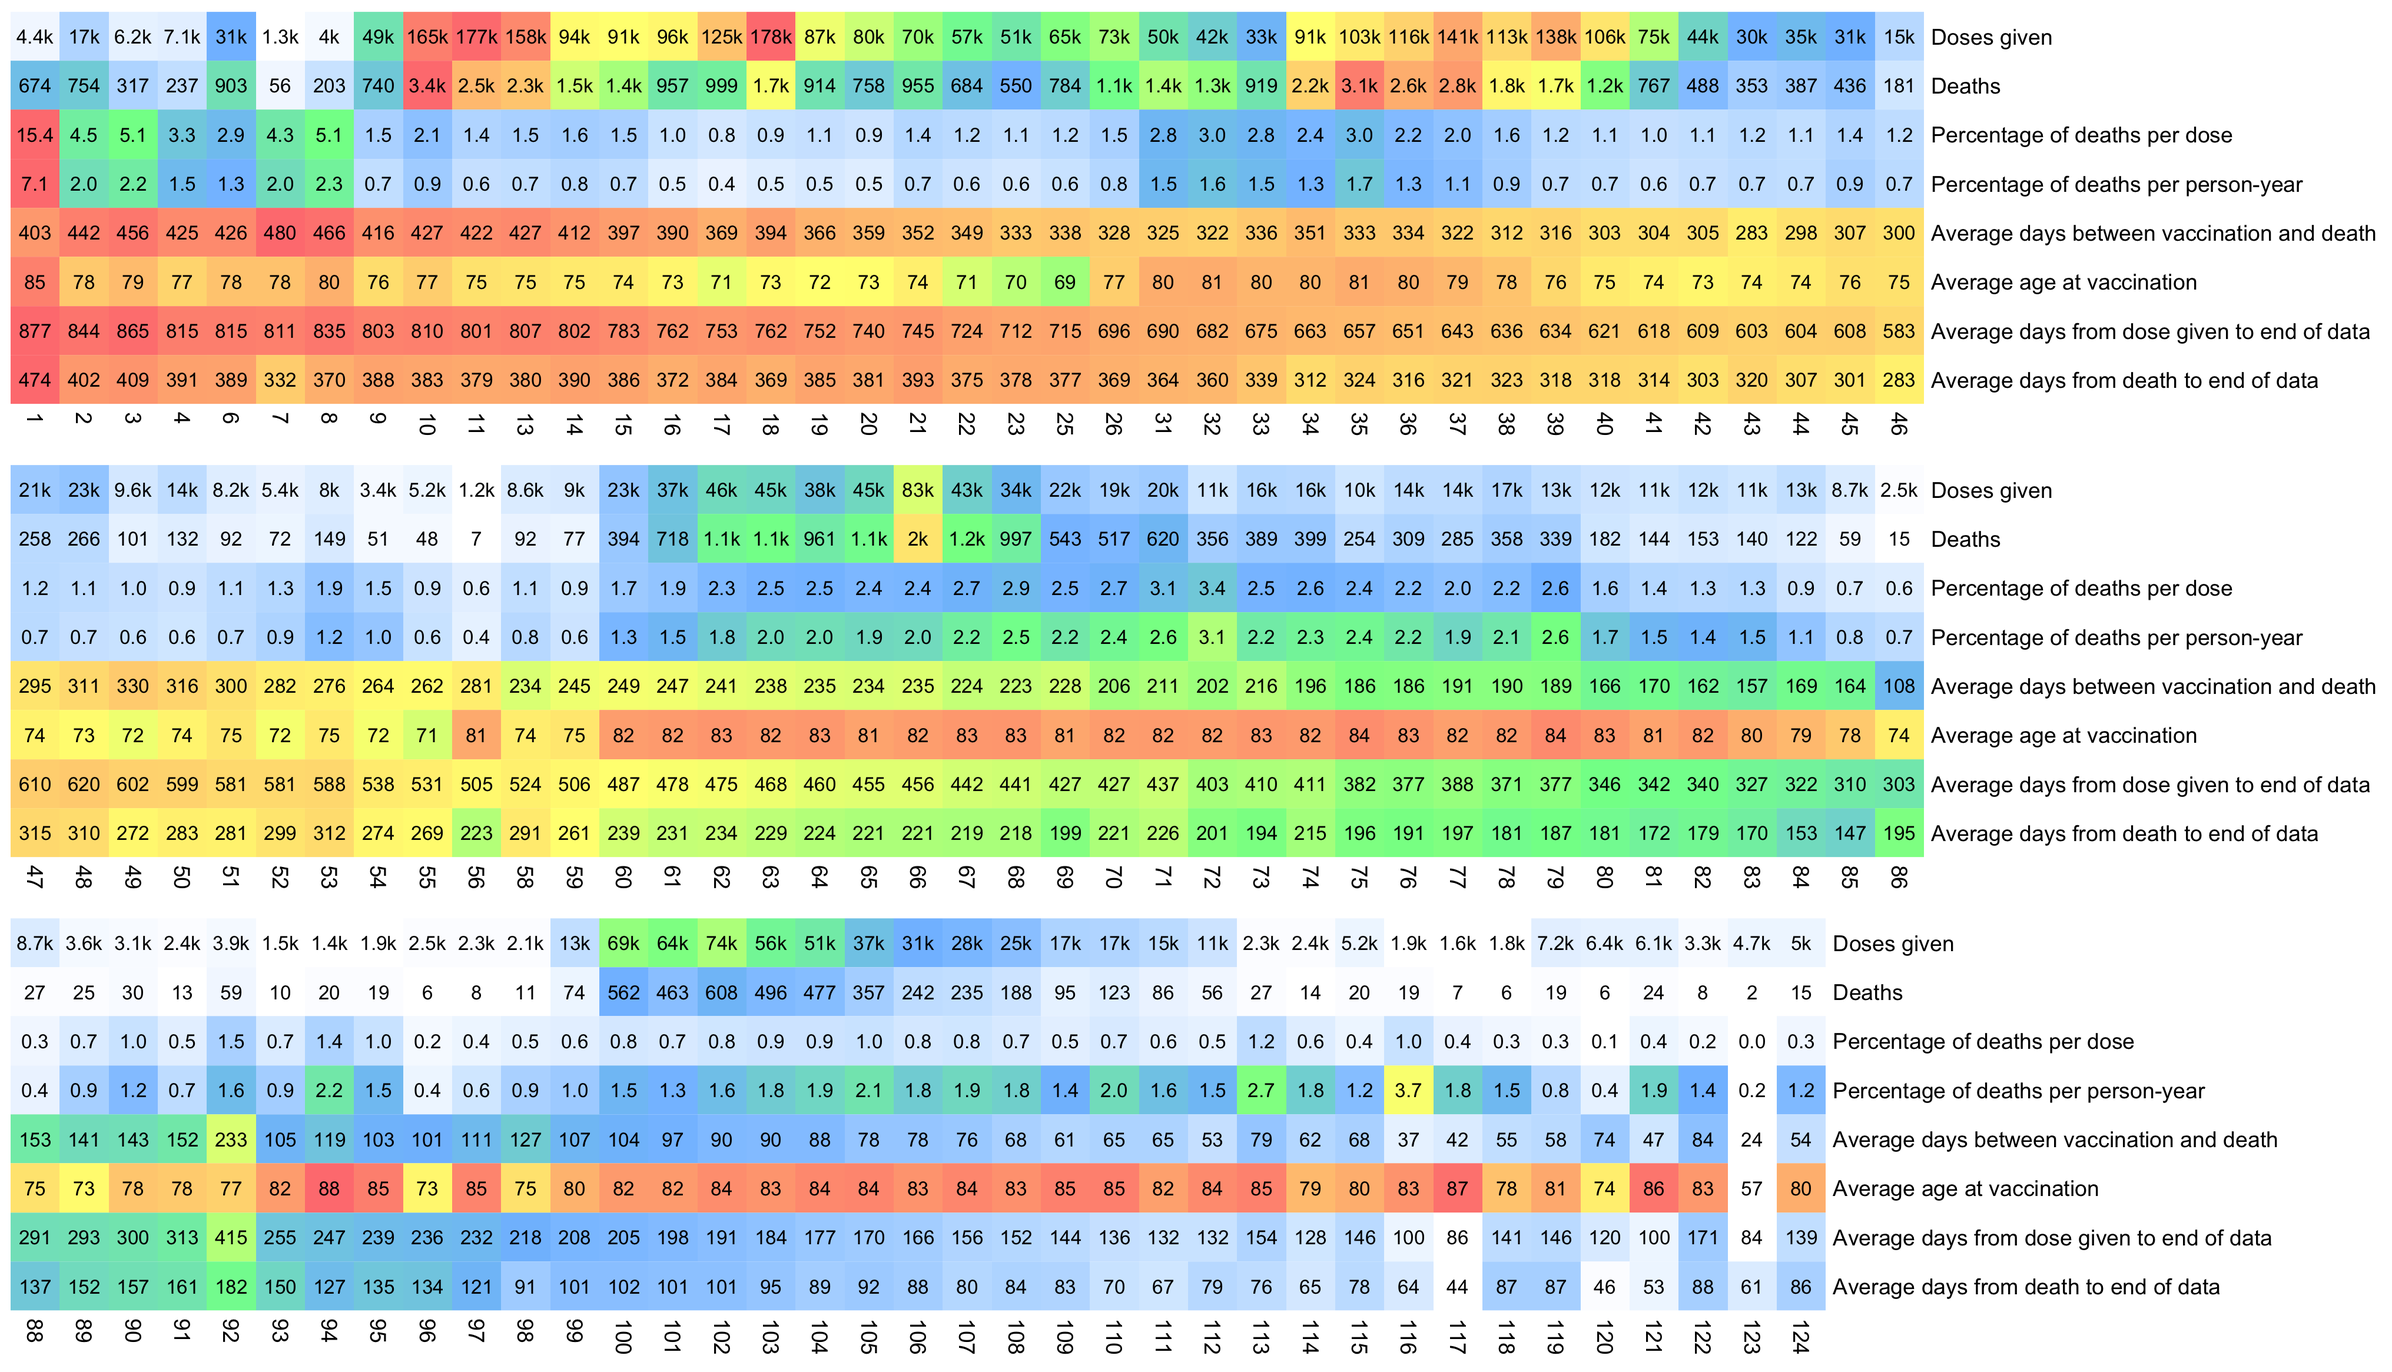
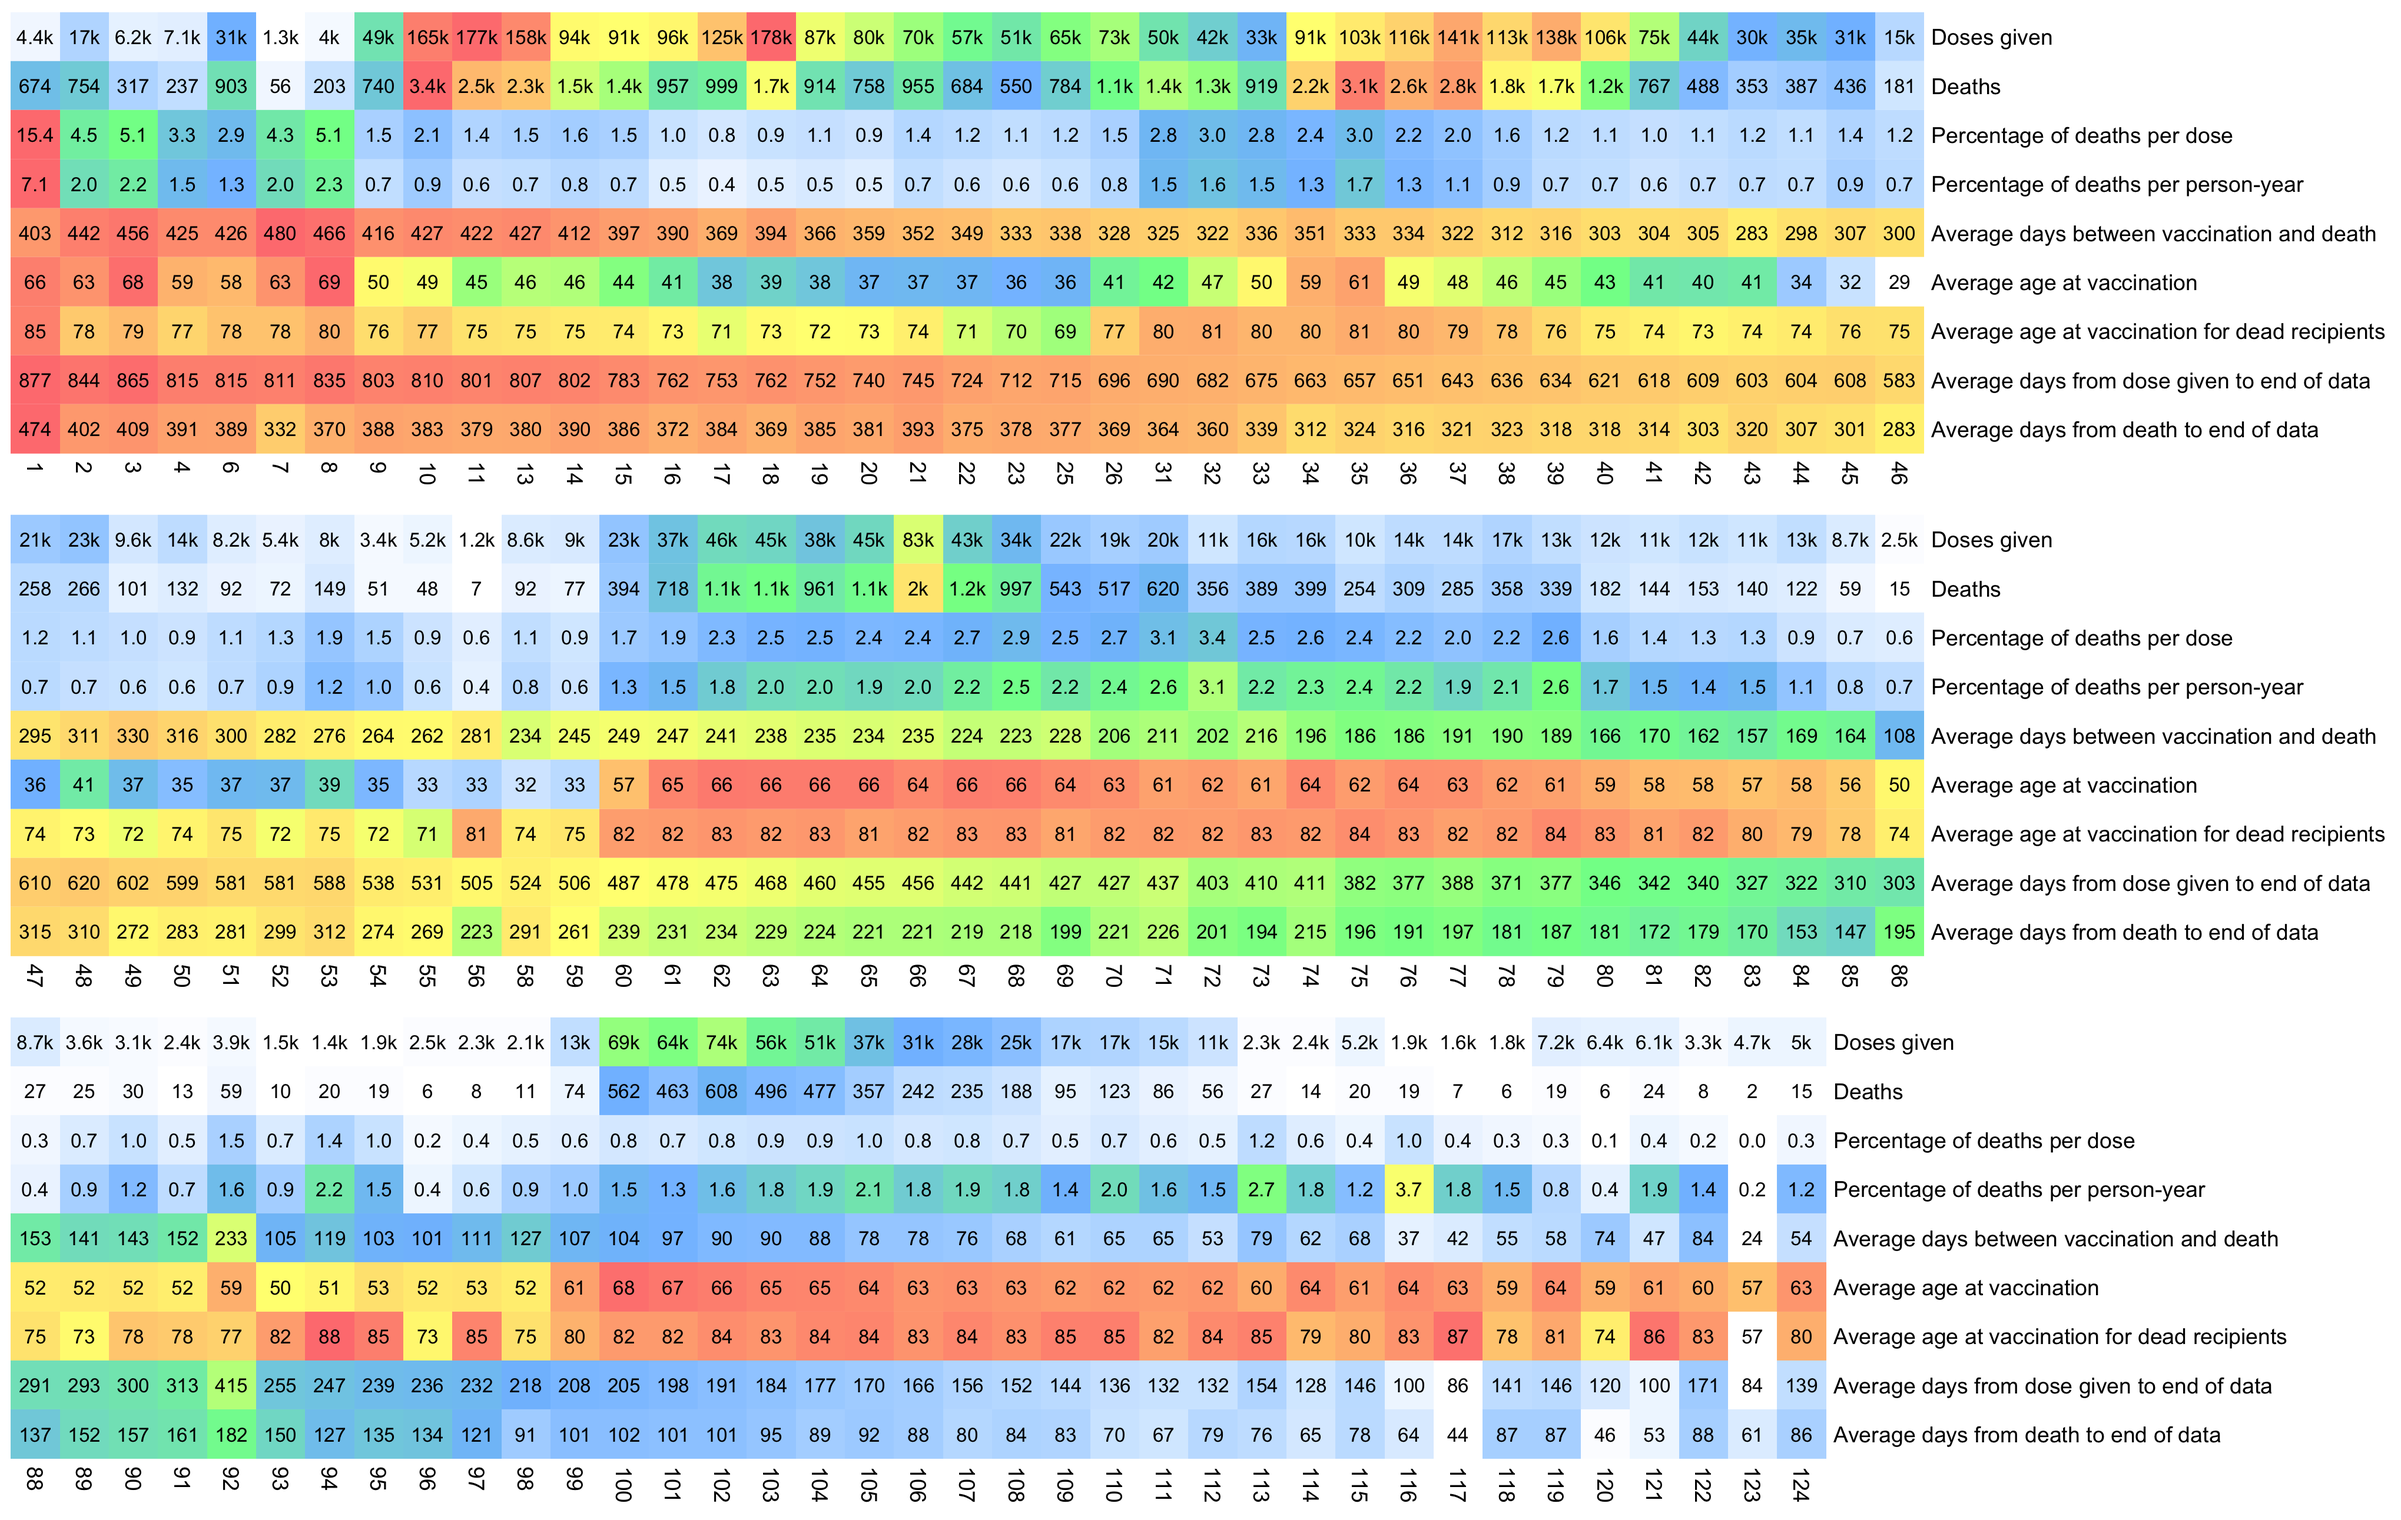
a

Changed region(s): [[0.0, 0.0, 0.9924, 0.6486], [0.0, 0.6795, 0.9614, 0.9884]]

diff --git a/moar.html b/moar.html
@@ -54,6 +54,7 @@ th{background:#eee;text-align:left;font-weight:bold}
 <li><a href=#Excess_mortality_compared_to_new_vaccinations>Excess mortality compared to new vaccinations</a></li>
 <li><a href=#Histogram_for_days_from_vaccination_until_death>Histogram for days from vaccination until death</a></li>
 <li><a href=#Distribution_of_vaccine_doses_given_per_day_compared_to_OWID>Distribution of vaccine doses given per day compared to OWID</a></li>
+<li><a href=#Table_for_deaths_by_vaccination_site>Table for deaths by vaccination site</a></li>
 </ul>
 
 <h2>
@@ -163,26 +164,29 @@ batch  doses_given  deaths  death_pct  most_common_vaccine_type_of_batch  pct_of
 </div>
 <p>I omitted 4 batches that had zero deaths from the heatmap above. The end of data refers to 2023-10-27 which was the date of the last death included in the dataset.</p>
 <p>R code:</p>
-<pre>t=read.csv(&quot;nz-record-level-data-4M-records.csv&quot;)
+<pre>t=read.csv(textConnection(readLines(gzcon(url(&quot;https://mongol-fi.github.io/f/nz-record-level-data-4M-records.csv.gz&quot;)))))
 t2=t[t$date_of_death!=&quot;&quot;,]
 t1=t[t$batch_id%in%t2$batch_id,]
 
-dvax=as.Date(t2$date_time_of_service,&quot;%m-%d-%Y&quot;)
-ddeath=as.Date(t2$date_of_death,&quot;%m-%d-%Y&quot;)
-dbirth=as.Date(t2$date_of_birth,&quot;%m-%d-%Y&quot;)
-dend=max(ddeath)
-
 doses=table(t1$batch_id)
 deaths=table(t2$batch_id)
+vax1=as.Date(t1$date_time_of_service,&quot;%m-%d-%Y&quot;)
+death1=as.Date(t1$date_of_death,&quot;%m-%d-%Y&quot;)
+birth1=as.Date(t1$date_of_birth,&quot;%m-%d-%Y&quot;)
+vax2=as.Date(t2$date_time_of_service,&quot;%m-%d-%Y&quot;)
+death2=as.Date(t2$date_of_death,&quot;%m-%d-%Y&quot;)
+birth2=as.Date(t2$date_of_birth,&quot;%m-%d-%Y&quot;)
+dend=max(death2)
 
-d=data.frame(`Doses listed for batch`=c(doses),check.names=F)
-d$`Deaths listed for batch`=deaths
+d=data.frame(`Doses given`=c(doses),check.names=F)
+d$`Deaths`=deaths
 d$`Percentage of deaths per dose`=100*deaths/doses
-d$`Death percent per person-year`=deaths/(tapply(pmin(as.Date(t1$date_of_death,&quot;%m-%d-%Y&quot;),dend,na.rm=T)-as.Date(t1$date_time_of_service,&quot;%m-%d-%Y&quot;),t1$batch_id,sum)/365.2422)*1e2
-d$`Average days between vaccination and death`=tapply(ddeath-dvax,t2$batch_id,mean)
-d$`Average age at vaccination`=tapply(dvax-dbirth,t2$batch_id,mean)/365.2422
-d$`Average days from dose given to end of data`=tapply(dend-dvax,t2$batch_id,mean)
-d$`Average days from death to end of data`=tapply(dend-ddeath,t2$batch_id,mean)
+d$`Percentage of deaths per person-year`=deaths/(tapply(pmin(death1,dend,na.rm=T)-vax1,t1$batch_id,sum)/365.2422)*1e2
+d$`Average days between vaccination and death`=tapply(death2-vax2,t2$batch_id,mean)
+d$`Average age at vaccination`=tapply(vax1-birth1,t1$batch_id,mean)/365.2422
+d$`Average age at vaccination for dead recipients`=tapply(vax2-birth2,t2$batch_id,mean)/365.2422
+d$`Average days from dose given to end of data`=tapply(dend-vax2,t2$batch_id,mean)
+d$`Average days from death to end of data`=tapply(dend-death2,t2$batch_id,mean)
 
 m=t(apply(d,2,\(x)(x-min(x))/(max(x)-min(x))))
 
@@ -191,23 +195,30 @@ disp=kimir2(t(d))
 disp[3,]=sprintf(&quot;%.1f&quot;,d[,3])
 disp[4,]=sprintf(&quot;%.1f&quot;,d[,4])
 
-pheatmap::pheatmap(
-  m,
-  filename=&quot;1.png&quot;,
-  cluster_rows=F,
-  cluster_cols=F,
-  legend=F,
-  cellwidth=20,
-  cellheight=20,
-  fontsize=9,
-  border_color=NA,
-  display_numbers=disp,
-  fontsize_number=8,
-  number_color=&quot;black&quot;,
-  na_col=&quot;white&quot;,
-  breaks=seq(0,1,,256),
-  colorRampPalette(colorspace::hex(colorspace::HSV(c(210,210,130,60,40,20,0),c(0,.5,.5,.5,.5,.5,.5),1)))(256)
-)</pre>
+slices=3
+for(i in 1:slices){
+  step=ceiling(ncol(m)/slices)
+  start=(i-1)*step+1
+  end=min(start+step-1,ncol(m))
+  pheatmap::pheatmap(
+    m[,start:end],
+    filename=paste0(&quot;i&quot;,i,&quot;.png&quot;),
+    cluster_rows=F,
+    cluster_cols=F,
+    legend=F,
+    cellwidth=20,
+    cellheight=20,
+    fontsize=9,
+    border_color=NA,
+    display_numbers=disp[,start:end],
+    fontsize_number=8,
+    number_color=&quot;black&quot;,
+    na_col=&quot;white&quot;,
+    breaks=seq(0,1,,256),
+    colorRampPalette(hex(HSV(c(210,210,130,60,40,20,0),c(0,.5,.5,.5,.5,.5,.5),1)))(256)
+  )
+}
+system(&quot;montage -geometry +0+0 -tile 1x i[123].png 1.png&quot;)</pre>
 <h2>
 <a href=#Winston_Smiths_method_of_counting_days_with_120_or_more_deaths id=Winston_Smiths_method_of_counting_days_with_120_or_more_deaths>Winston Smith's method of counting days with 120 or more deaths</a>
 </h2>
@@ -247,7 +258,7 @@ pheatmap::pheatmap(
 <a href=#Histogram_for_days_from_vaccination_until_death id=Histogram_for_days_from_vaccination_until_death>Histogram for days from vaccination until death</a>
 </h2>
 <p>In the CSV file that was published by Kirsch, there are only 7 records where the date of death is the same as the date of vaccination, so that the time from vaccination to death was zero days. And there's also a low number of records where the date of death is within a week from a vaccination:</p>
-<pre>&gt; t=read.csv(&quot;nz-record-level-data-4M-records.csv&quot;)
+<pre>&gt; t=read.csv(textConnection(readLines(gzcon(url(&quot;https://mongol-fi.github.io/f/nz-record-level-data-4M-records.csv.gz&quot;)))))
 &gt; t2=t[t$date_of_death!=&quot;&quot;,]
 &gt; ta=table(as.Date(t2$date_of_death,&quot;%m-%d-%Y&quot;)-as.Date(t2$date_time_of_service,&quot;%m-%d-%Y&quot;))
 &gt; head(ta,100)
@@ -271,7 +282,7 @@ pheatmap::pheatmap(
 <p>R code:</p>
 <pre>library(ggplot2)
 
-t=read.csv(&quot;nz-record-level-data-4M-records.csv&quot;)
+t=read.csv(textConnection(readLines(gzcon(url(&quot;https://mongol-fi.github.io/f/nz-record-level-data-4M-records.csv.gz&quot;)))))
 t2=t[t$date_of_death!=&quot;&quot;,]
 ta=table(as.Date(t2$date_of_death,&quot;%m-%d-%Y&quot;)-as.Date(t2$date_time_of_service,&quot;%m-%d-%Y&quot;))
 
@@ -344,6 +355,15 @@ Date,First doses,Second doses,Third primary doses,First Boosters,Second Boosters
 2023-04-30,12,632,0,49,774
 2023-05-01,20,6551,10,177,3452
 2023-05-02,18,7422,4,206,3788</pre>
+<h2>
+<a href=#Table_for_deaths_by_vaccination_site id=Table_for_deaths_by_vaccination_site>Table for deaths by vaccination site</a>
+</h2>
+<p>Winston Smith's presentation included this table which showed the vaccination sites with the highest percentage of deaths per vaccinations: [<a href="https://rumble.com/v3yqgsf-liz-gunn-the-mother-of-all-covid-19-vaccine-revelations-data-revealed-in-th.html">https://rumble.com/v3yqgsf-liz-gunn-the-mother-of-all-covid-19-vaccine-revelations-data-revealed-in-th.html</a>, time 41:50]</p>
+<div class="width6">
+<img src="i/moar-deaths-per-site.jpg">
+</div>
+<p>The first row of the table is <span class="quote">&quot;Te Hopai Home &amp; Hospital&quot;</span> which has 191 vaccinations and 61 deaths, which results in ratio of about 32% deaths per vaccination. I don't know if the number of vaccinations refers to the number of vaccine doses given or the number of vaccinated patients, because information about vaccination sites is not included in the files that Kirsch published on his cloud server.</p>
+<p>But in any case, <span class="quote">&quot;The Hopai Home &amp; Hospital&quot;</span> is a nursing home. [<a href="https://www.tehopai.co.nz/">https://www.tehopai.co.nz/</a>] The dataset published by the whistleblower includes about two and half years of data, so it's not that unusual that about 30% of vaccine doses in a nursing home would've been given to people who are now dead.</p>
 <script>
 let q=document.querySelectorAll('a,code,pre')
 for(let i=0;e=q[i];i++)e.innerHTML=e.innerHTML.replace(/(\w{60,})/g,x=>x.replace(/./g,"$&<wbr>")).replace(/([\041-\045\047-\057\072\075\077-\100\133-\137\173-\176])/g,"$1<wbr>")
